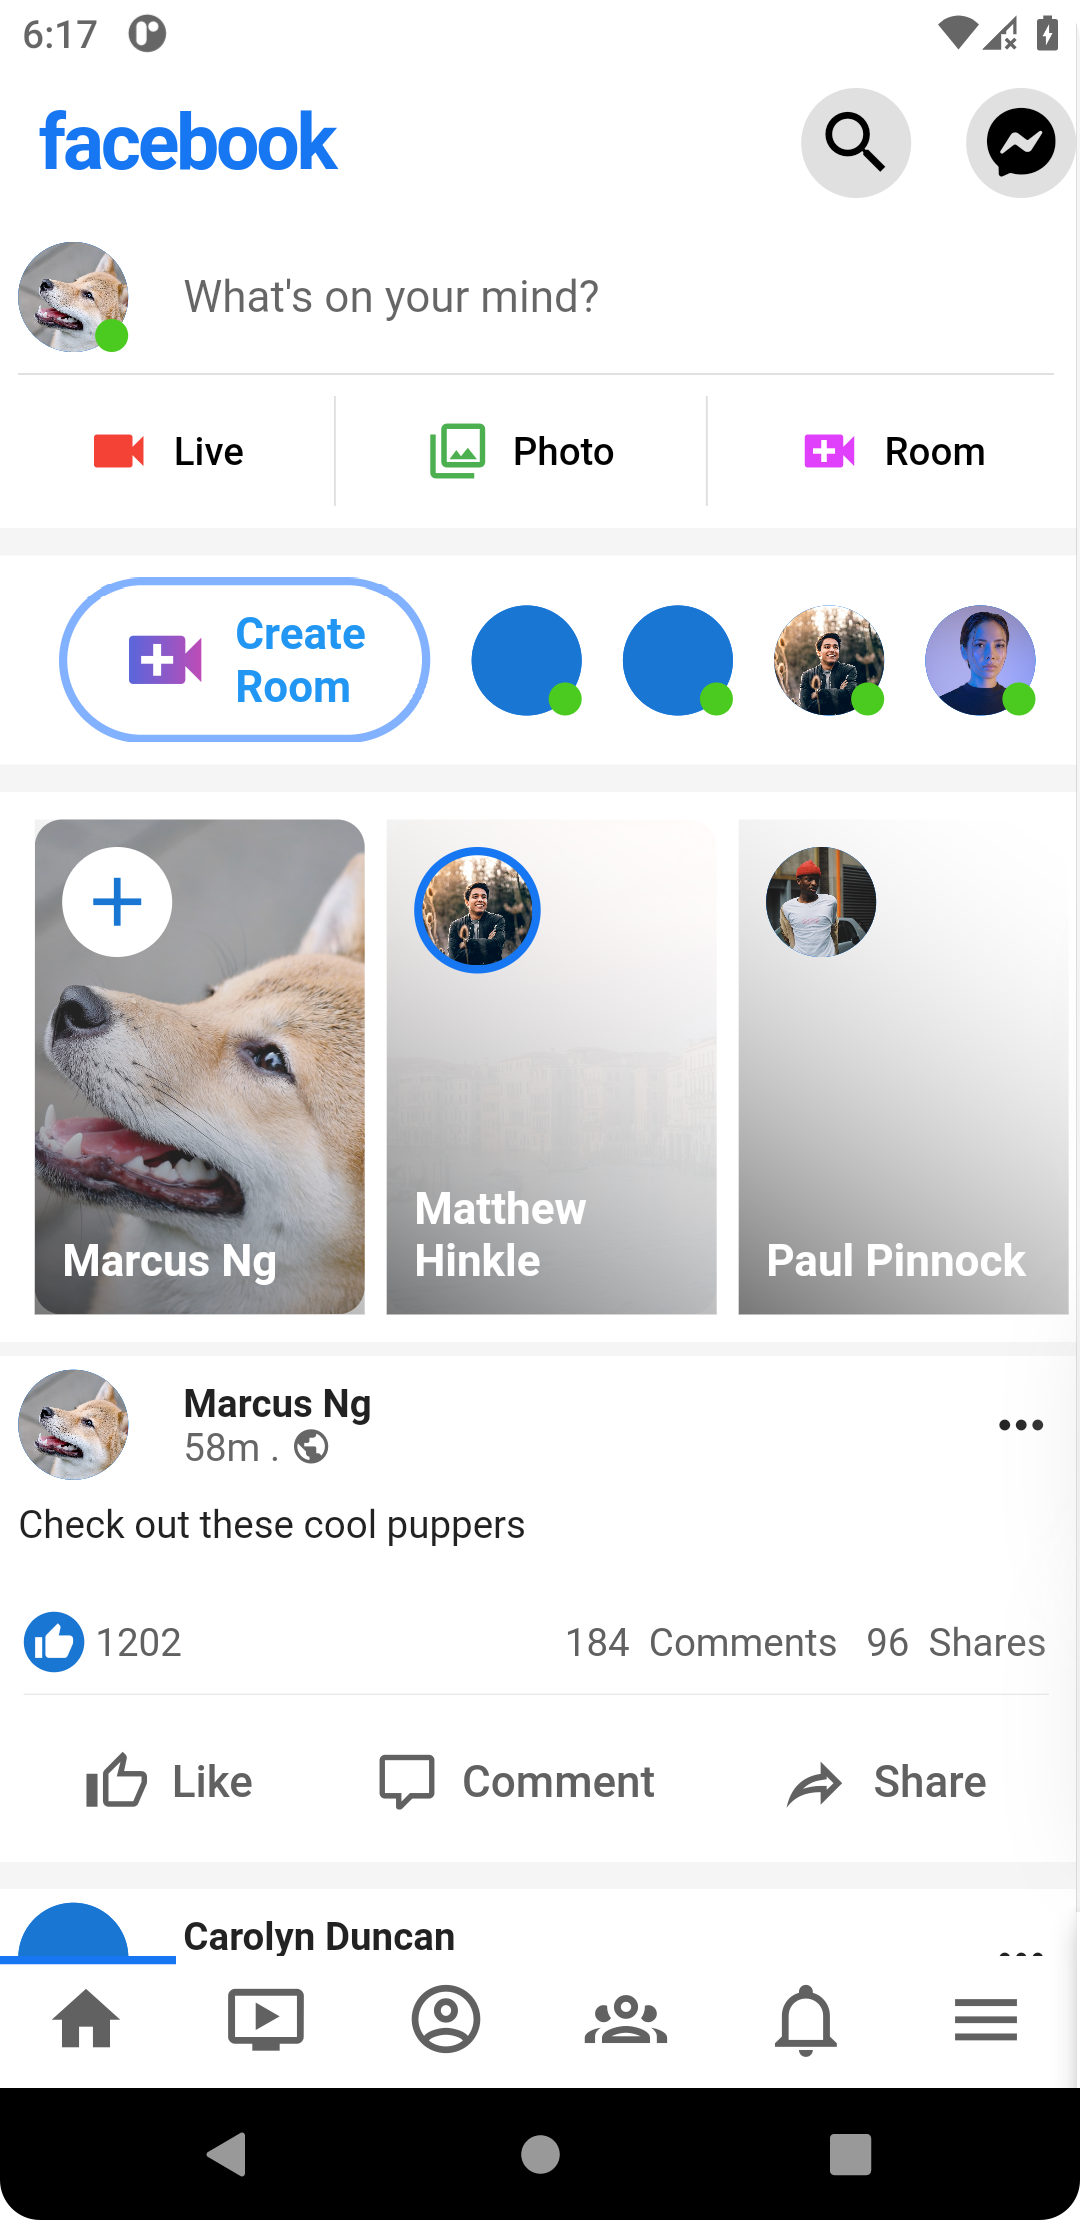
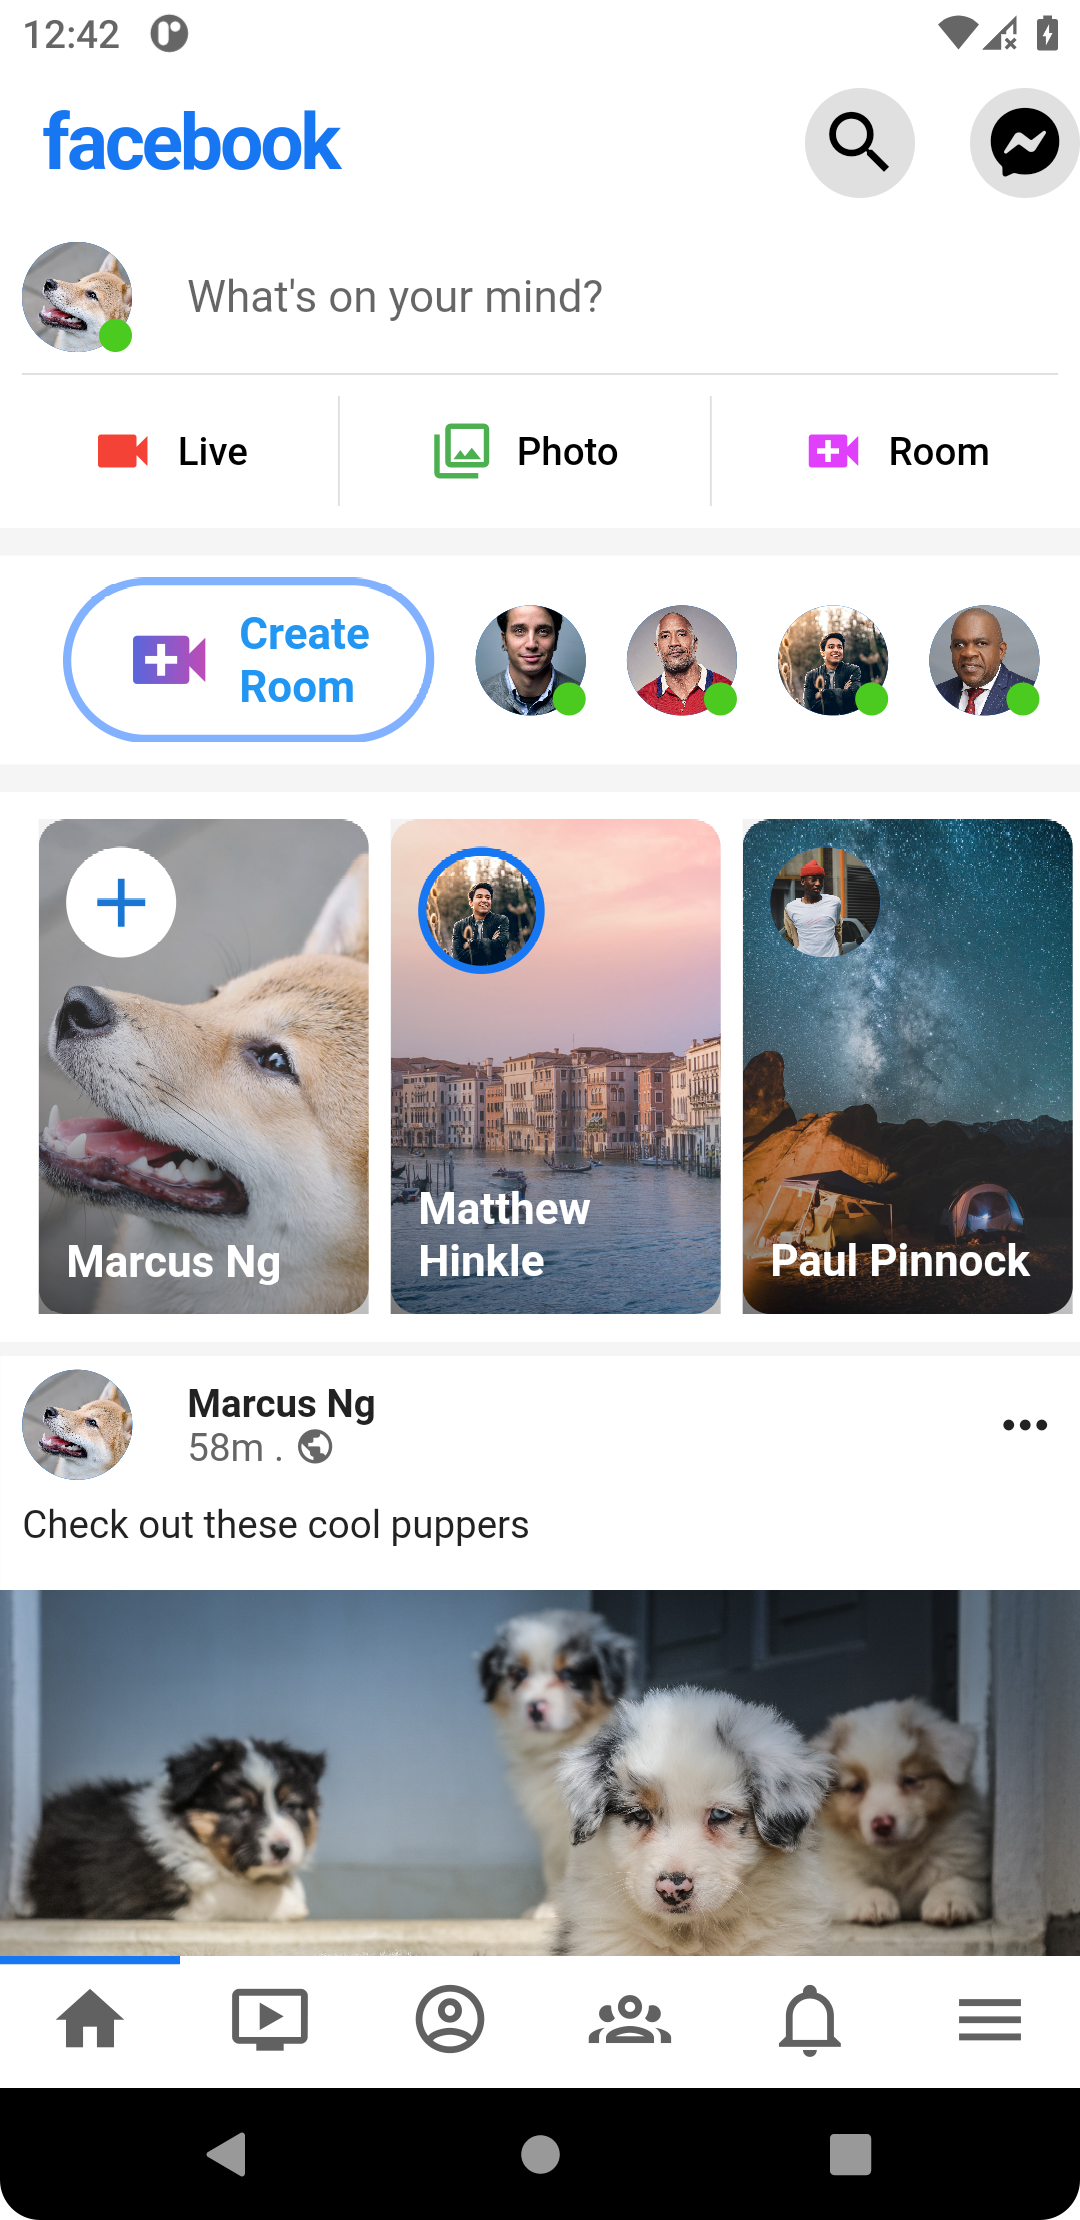
readme update

diff --git a/lib/facebook_app/data/data.dart b/lib/facebook_app/data/data.dart
@@ -13,9 +13,9 @@ final List<User> onlineUsers = [
         'https://images.unsplash.com/photo-1500648767791-00dcc994a43e?ixlib=rb-1.2.1&ixid=eyJhcHBfaWQiOjEyMDd9&auto=format&fit=crop&w=634&q=80',
   ),
   const User(
-    name: 'Jane Doe',
+    name: 'The rock',
     imageUrl:
-        'https://images.unsplash.com/photo-1494790108377-be9c29b29330?ixlib=rb-1.2.1&ixid=eyJhcHBfaWQiOjEyMDd9&auto=format&fit=crop&w=634&q=80',
+        'https://www.dmarge.com/wp-content/uploads/2021/01/dwayne-the-rock-.jpg',
   ),
   const User(
     name: 'Matthew Hinkle',
@@ -23,9 +23,9 @@ final List<User> onlineUsers = [
         'https://images.unsplash.com/photo-1492562080023-ab3db95bfbce?ixlib=rb-1.2.1&ixid=eyJhcHBfaWQiOjEyMDd9&auto=format&fit=crop&w=1331&q=80',
   ),
   const User(
-    name: 'Amy Smith',
+    name: 'Floyd Morris',
     imageUrl:
-        'https://images.unsplash.com/photo-1534528741775-53994a69daeb?ixlib=rb-1.2.1&ixid=eyJhcHBfaWQiOjEyMDd9&auto=format&fit=crop&w=700&q=80',
+        'https://caricom.org/wp-content/uploads/Floyd-Morris-Remake-1024x879-1.jpg',
   ),
   const User(
     name: 'Ed Morris',
@@ -33,9 +33,9 @@ final List<User> onlineUsers = [
         'https://images.unsplash.com/photo-1521119989659-a83eee488004?ixlib=rb-1.2.1&ixid=eyJhcHBfaWQiOjEyMDd9&auto=format&fit=crop&w=664&q=80',
   ),
   const User(
-    name: 'Carolyn Duncan',
+    name: 'john wick',
     imageUrl:
-        'https://images.unsplash.com/photo-1544005313-94ddf0286df2?ixlib=rb-1.2.1&ixid=eyJhcHBfaWQiOjEyMDd9&auto=format&fit=crop&w=634&q=80',
+        'https://i.insider.com/5d66d21e6f24eb396b6c8192?width=700',
   ),
   const User(
     name: 'Paul Pinnock',
@@ -43,18 +43,18 @@ final List<User> onlineUsers = [
         'https://images.unsplash.com/photo-1519631128182-433895475ffe?ixlib=rb-1.2.1&auto=format&fit=crop&w=1350&q=80',
   ),
   const User(
-      name: 'Elizabeth Wong',
+      name: 'Alan Alda',
       imageUrl:
-          'https://images.unsplash.com/photo-1515077678510-ce3bdf418862?ixlib=rb-1.2.1&ixid=eyJhcHBfaWQiOjF9&auto=format&fit=crop&w=675&q=80'),
+          'https://i0.wp.com/factrepublic.com/wp-content/uploads/2017/10/1.Alan-Alda.jpg'),
   const User(
     name: 'James Lathrop',
     imageUrl:
         'https://images.unsplash.com/photo-1528892952291-009c663ce843?ixlib=rb-1.2.1&ixid=eyJhcHBfaWQiOjEyMDd9&auto=format&fit=crop&w=592&q=80',
   ),
   const User(
-    name: 'Jessie Samson',
+    name: 'Alex zhang',
     imageUrl:
-        'https://images.unsplash.com/photo-1517841905240-472988babdf9?ixlib=rb-1.2.1&ixid=eyJhcHBfaWQiOjEyMDd9&auto=format&fit=crop&w=634&q=80',
+        'https://inst.eecs.berkeley.edu/~cs194-26/fa17/upload/files/proj4/cs194-26-adq/asianguy.jpg',
   ),
   const User(
     name: 'David Brooks',
@@ -62,9 +62,9 @@ final List<User> onlineUsers = [
         'https://images.unsplash.com/photo-1500648767791-00dcc994a43e?ixlib=rb-1.2.1&ixid=eyJhcHBfaWQiOjEyMDd9&auto=format&fit=crop&w=634&q=80',
   ),
   const User(
-    name: 'Jane Doe',
+    name: 'The rock',
     imageUrl:
-        'https://images.unsplash.com/photo-1494790108377-be9c29b29330?ixlib=rb-1.2.1&ixid=eyJhcHBfaWQiOjEyMDd9&auto=format&fit=crop&w=634&q=80',
+        'https://www.dmarge.com/wp-content/uploads/2021/01/dwayne-the-rock-.jpg',
   ),
   const User(
     name: 'Matthew Hinkle',
@@ -72,9 +72,9 @@ final List<User> onlineUsers = [
         'https://images.unsplash.com/photo-1492562080023-ab3db95bfbce?ixlib=rb-1.2.1&ixid=eyJhcHBfaWQiOjEyMDd9&auto=format&fit=crop&w=1331&q=80',
   ),
   const User(
-    name: 'Amy Smith',
+    name: 'Floyd Morris',
     imageUrl:
-        'https://images.unsplash.com/photo-1534528741775-53994a69daeb?ixlib=rb-1.2.1&ixid=eyJhcHBfaWQiOjEyMDd9&auto=format&fit=crop&w=700&q=80',
+        'https://caricom.org/wp-content/uploads/Floyd-Morris-Remake-1024x879-1.jpg',
   ),
   const User(
     name: 'Ed Morris',
@@ -82,9 +82,9 @@ final List<User> onlineUsers = [
         'https://images.unsplash.com/photo-1521119989659-a83eee488004?ixlib=rb-1.2.1&ixid=eyJhcHBfaWQiOjEyMDd9&auto=format&fit=crop&w=664&q=80',
   ),
   const User(
-    name: 'Carolyn Duncan',
+    name: 'john wick',
     imageUrl:
-        'https://images.unsplash.com/photo-1544005313-94ddf0286df2?ixlib=rb-1.2.1&ixid=eyJhcHBfaWQiOjEyMDd9&auto=format&fit=crop&w=634&q=80',
+        'https://i.insider.com/5d66d21e6f24eb396b6c8192?width=700',
   ),
   const User(
     name: 'Paul Pinnock',
@@ -92,18 +92,18 @@ final List<User> onlineUsers = [
         'https://images.unsplash.com/photo-1519631128182-433895475ffe?ixlib=rb-1.2.1&auto=format&fit=crop&w=1350&q=80',
   ),
   const User(
-      name: 'Elizabeth Wong',
+      name: 'Alan Alda',
       imageUrl:
-          'https://images.unsplash.com/photo-1515077678510-ce3bdf418862?ixlib=rb-1.2.1&ixid=eyJhcHBfaWQiOjF9&auto=format&fit=crop&w=675&q=80'),
+          'https://i0.wp.com/factrepublic.com/wp-content/uploads/2017/10/1.Alan-Alda.jpg'),
   const User(
     name: 'James Lathrop',
     imageUrl:
         'https://images.unsplash.com/photo-1528892952291-009c663ce843?ixlib=rb-1.2.1&ixid=eyJhcHBfaWQiOjEyMDd9&auto=format&fit=crop&w=592&q=80',
   ),
   const User(
-    name: 'Jessie Samson',
+    name: 'Alex zhang',
     imageUrl:
-        'https://images.unsplash.com/photo-1517841905240-472988babdf9?ixlib=rb-1.2.1&ixid=eyJhcHBfaWQiOjEyMDd9&auto=format&fit=crop&w=634&q=80',
+        'https://inst.eecs.berkeley.edu/~cs194-26/fa17/upload/files/proj4/cs194-26-adq/asianguy.jpg',
   ),
 ];
 

diff --git a/lib/coffe_shop/README.md b/lib/coffe_shop/README.md
@@ -1,9 +1,8 @@
-# Flutter Coffee screens UI 
+# Flutter Coffee screens UI
 
 
-![Mobile Screenshot](../screenshots/coffe1.png)
+<img src="https://github.com/ahmed4442025/random_screens/blob/master/screenshots/coffe1.png" width="350">
 
-![Mobile Screenshot](../screenshots/coffe2.png)
+<img src="https://github.com/ahmed4442025/random_screens/blob/master/screenshots/coffe2.png" width="350">
 
-![Mobile Screenshot](../screenshots/coffe3.png)
-
+<img src="https://github.com/ahmed4442025/random_screens/blob/master/screenshots/coffe3.png" width="350">

diff --git a/lib/facebook_app/README.md b/lib/facebook_app/README.md
@@ -1,9 +1,9 @@
 # Flutter FaceBook screens UI 
 
 
-![Mobile Screenshot](../screenshots/face1.png)
+<img src="https://github.com/ahmed4442025/random_screens/blob/master/screenshots/face1.png" width="350">
 
-![Mobile Screenshot](../screenshots/face2.png)
+<img src="https://github.com/ahmed4442025/random_screens/blob/master/screenshots/face2.png" width="350">
 
-![Mobile Screenshot](../screenshots/face3.png)
+<img src="https://github.com/ahmed4442025/random_screens/blob/master/screenshots/face3.png" width="350">
 

diff --git a/lib/wallet_app/README.md b/lib/wallet_app/README.md
@@ -1,7 +1,5 @@
-# Flutter wallet screens UI 
+# Flutter wallet screens UI
 
+<img src="https://github.com/ahmed4442025/random_screens/blob/master/screenshots/wallet1.png" width="350">
 
-![Mobile Screenshot](../screenshots/wallet1.png)
-
-![Mobile Screenshot](../screenshots/wallet1.png)
-
+<img src="https://github.com/ahmed4442025/random_screens/blob/master/screenshots/wallet2.png" width="350">

diff --git a/README.md b/README.md
@@ -1,4 +1,4 @@
-# Flutter Random screens UI 
+# Flutter Random screens UI
 
 [GitHub Link /lib/facebook_app](https://github.com/ahmed4442025/random_screens/tree/master/lib/facebook_app)
 
